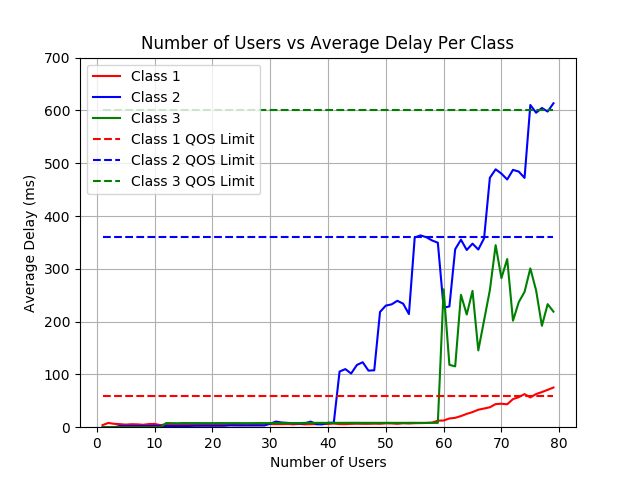
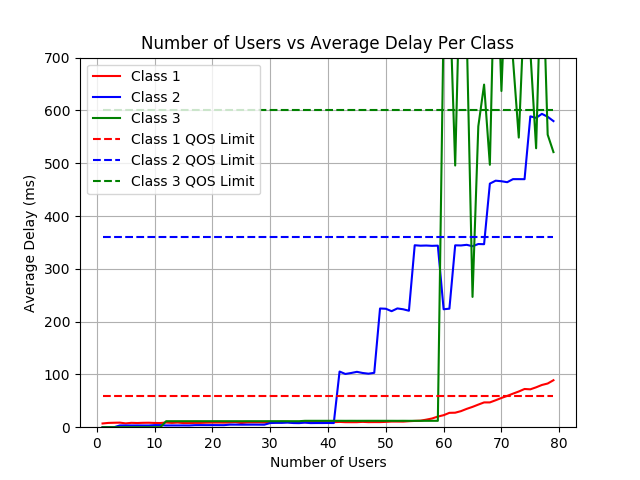
WRR PFT scheduler implemented and working. Missing adjusted weights for WRR and throughput from BS to MS plots

diff --git a/RRM_lib.py b/RRM_lib.py
@@ -68,6 +68,7 @@ class Radio_Resource_Manager(object):
         self.class_lookup = [class_1, class_2, class_3]                 # quick class lookup table based on class ID
         self.N_burst_lookup = [self.N_burst_1, self.N_burst_2, None]
 
+        self.b = 0.8
         #print self.N_burst_1
         #print self.N_burst_2
 
@@ -211,9 +212,8 @@ class Radio_Resource_Manager(object):
         #print "\n**Priority Based Scheduler**"
 
         tx_time = 1.0 # msec
-        done = False
 
-        while not done:
+        while 1 == 1:
             for class_id in range(3):
                 if self.class_n_packets_avail(class_id + 1):
                     # shuffle user list
@@ -234,21 +234,19 @@ class Radio_Resource_Manager(object):
                             else:
                                 empty_users += 1
 
-
     def WRR_scheduler(self, class_durations, current_slt):
-
-        #Total_Time = 1.0 # msec
-        #while time_tracker < Total_Time:
-
         tx_time = 1.0
-
-        #time_tracker += tx_time
         class_id = self.get_current_class_to_schedule(class_durations=class_durations, current_slt=current_slt)
-        done = False
 
-        while not done:
+
+        while 1 == 1:
             # shuffle user list
             usr_list = self.class_n_usrs[class_id-1].copy()
+
+            num_usrs = len(usr_list)
+            if num_usrs == 0:
+                return
+
             random.shuffle(usr_list)
             empty_users = 0
             for usr in usr_list:
@@ -266,7 +264,6 @@ class Radio_Resource_Manager(object):
                         tx_time = tx_time - t_to_dec
                     else:
                         return
-                        #done = True
                 else:
                     empty_users += 1
 
@@ -279,14 +276,8 @@ class Radio_Resource_Manager(object):
 
 
     def WRR_PFT_scheduler(self, class_durations, current_slt):
-
         tx_time = 1.0
-
-        #time_tracker += tx_time
         class_id = self.get_current_class_to_schedule(class_durations=class_durations, current_slt=current_slt)
-        done = False
-
-
 
         # for classes 1 and 2
         if class_id != 3:
@@ -300,23 +291,58 @@ class Radio_Resource_Manager(object):
             if num_usrs == 0:
                 return
 
-            r = [0] * num_usrs
-            TH = [0] * num_usrs
+            r = []
+            TH = []
+            for i in range(self.N):
+                r.append([])
+                TH.append([])
 
             # calculate all the rates that can be achieved for the last packet in the queue of each user
-            while not done:
+            while 1 == 1:
+                empty_users = 0
                 for usr_i in usr_list:
-                    r = self.user_queues[usr_i][-1].get("R_MS") # achievable rate for this packet
-                    r[usr_i].append(r)
-                    if k > 0:
-                        TH[usr_i].append( (self.b*r[k-1]) + (1-self.b) * r[k])
+                    if len(self.user_queues[usr_i]) > 0:
+                        rate = self.user_queues[usr_i][-1].get("R_MS") # achievable rate for this packet
+                        r[usr_i].append(rate)
+                        if k > 0:
+                            TH[usr_i].append( (self.b*r[usr_i][k-1]) + ((1-self.b) * r[usr_i][k]))
+                        else:
+                            TH[usr_i].append((1.0-self.b)*r[usr_i][k])
                     else:
-                        TH[usr_i].append( (1-self.b) * r[k])
+                        r[usr_i].append(-1.0)
+                        TH[usr_i].append(-1.0)
+                        empty_users += 1
 
-                k += 1
+                # check if all users were empty
+                if empty_users == num_usrs:
+                    return
+
+                usr_max = -1
+                current_max = -1.0
+                # find the user that maximizes the max(r(i,k)/TH(i,k)) functions
+                for usr_i in usr_list:
+                    if r[usr_i][k] > 0.0:
+                        this_max = r[usr_i][k]/TH[usr_i][k]
+                        if this_max > current_max:
+                            current_max = this_max
+                            usr_max = usr_i
+
+                if len(self.user_queues[usr_max]) > 0:
+                    t_to_dec = self.user_queues[usr_max][-1].get("T_MS")
+                    if (tx_time - t_to_dec) > 0.0:
+                        # pop the usr packet off the queue and add it to the tx queue
+                        pkt = self.pop_packet(usr_max)
+                        self.transmit_queue.appendleft(pkt)
+                        tx_time = tx_time - t_to_dec
+                        k += 1
+                    else:
+                        return
+                else:
+                    print "User with max has nothing to pop"
+                    sys.exit()
 
         else:
-            while not done:
+            while 1 == 1:
                 # shuffle user list
                 usr_list = self.class_n_usrs[class_id-1].copy()
                 random.shuffle(usr_list)
@@ -344,9 +370,7 @@ class Radio_Resource_Manager(object):
                 if empty_users == len(usr_list):
                     return
 
-
     def get_current_class_to_schedule(self, class_durations, current_slt):
-
         if self.current_class_id == 1:
             if current_slt == self.WRR_exp:
                 self.current_class_id = 2

diff --git a/simulation.py b/simulation.py
@@ -13,8 +13,9 @@ N_MS = 8                  # number of mobile stations
 
 
 scheduler = 1
+
 T = 100000         # number of simulations slots
-Tf = 20 #90  # 1 msec slots
+Tf = 30 #90  # 1 msec slots
 
 backoff = 0.0 # 3.0
 c1_bf = 15.0
@@ -22,9 +23,9 @@ c1_bf = 15.0
 #c2_per = (100.0/3) + c1_bf + backoff/2
 #c3_per = (100.0/3) - backoff
 
-c1_per = 30.0
-c2_per = 56.0
-c3_per = 14.0
+c1_per = 28.0 - 2.5
+c2_per = 56.5 - 2.5
+c3_per = 15.5 + 5
 
 W = np.array([c1_per / 100, c2_per / 100, c3_per / 100])
 
@@ -43,7 +44,7 @@ elif scheduler == 1:
     N_usrs = 80
 
 elif scheduler == 2:
-    N_usrs = 50
+    N_usrs = 80
 
 else:
     print "Scheduler Error"
